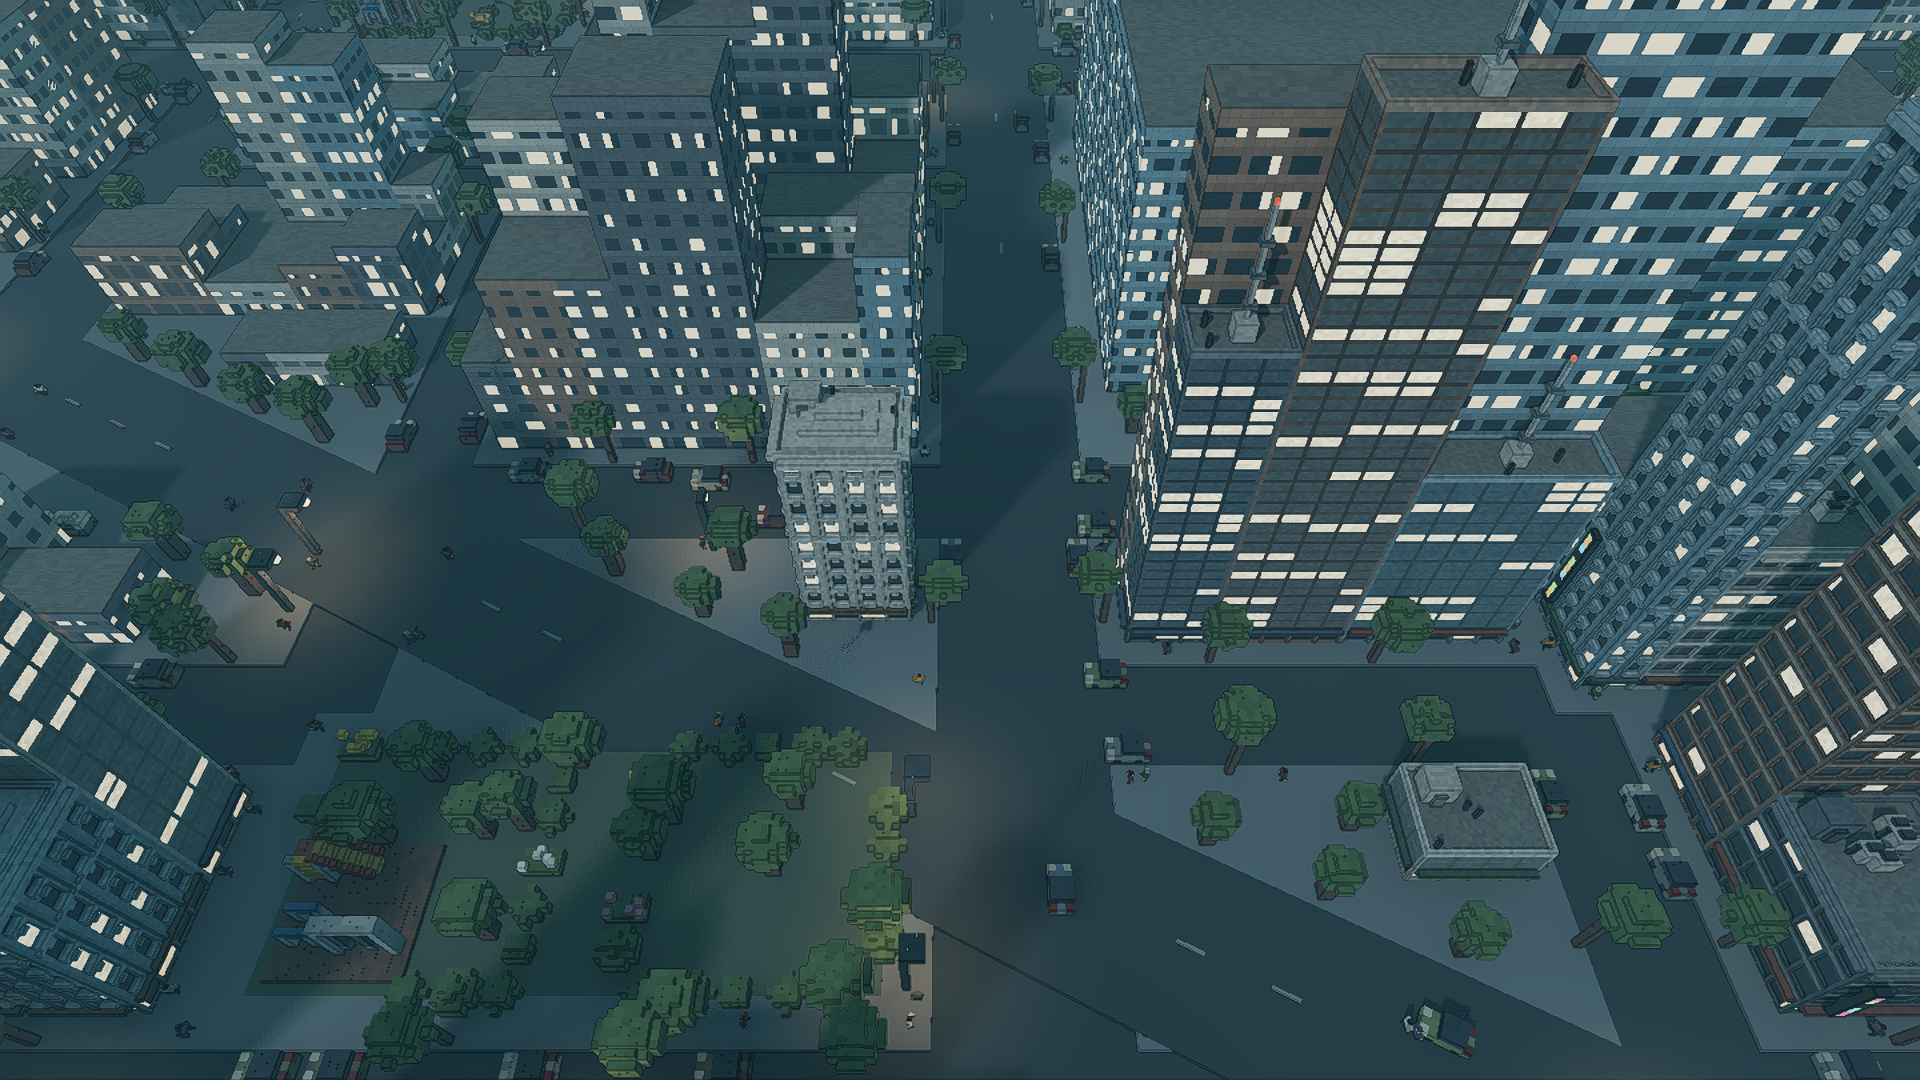
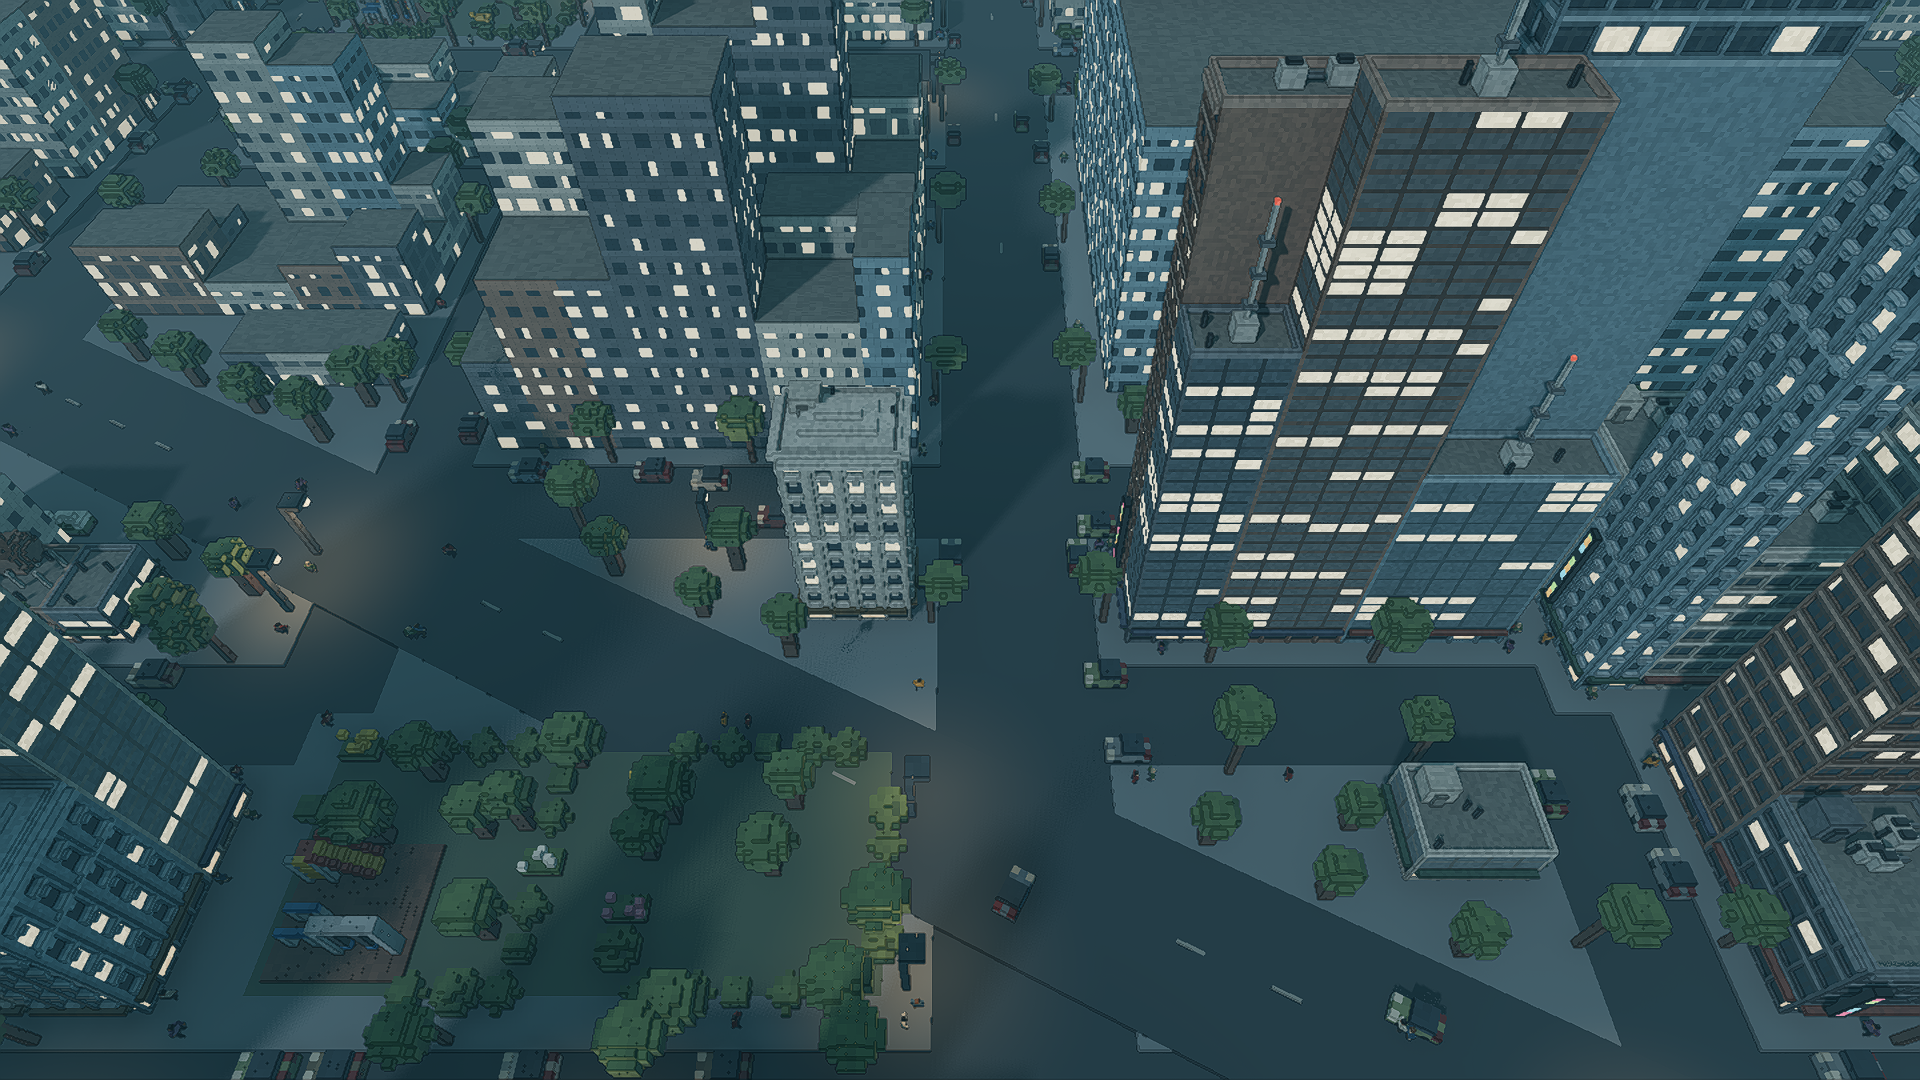
Carving WP4: floor slab colour 8a8780 (director), stills re-taken, 2x crops

diff --git a/agent-handoffs/carve-wp4.md b/agent-handoffs/carve-wp4.md
@@ -29,7 +29,7 @@ scratchpad build_native.bat (vcvars64 + python -m SCons platform=windows target=
   with 21 buildings promoted+carved (898k tris) GPU 8.4 ms (noise), CPU render +0.8-1.5 ms.
 ## Capture (local, director away, allowed by lead): capture_carve_view.gd at 1920x1080, kaiju hidden (covers
   tower). Boards in session scratchpad: board_sequence.png, board_slab.png (A 2b2d30 vs B 8a8780).
-- Lead ruling: keep A (slab 2b2d30, one palette line in BuildingVoxels._make_palette); lead asks director.
+- Director ruling 2026-10-20: slab is B 8a8780 (palette line changed; no test pin, materials.json has no colour). Stills re-taken + crop2x.
 ## Fix applied
 - Meshes now built on the main thread (worker-made mesh RIDs raced the dummy renderer:
   "Initializing already initialized RID"); workers return arrays.
